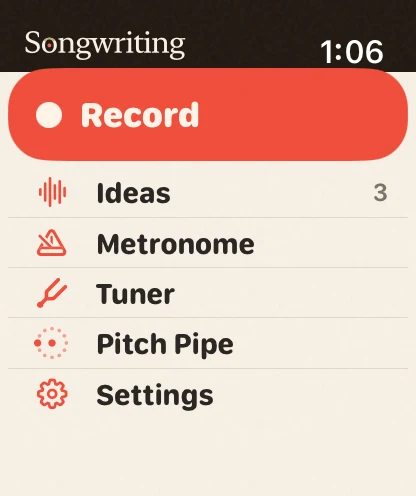
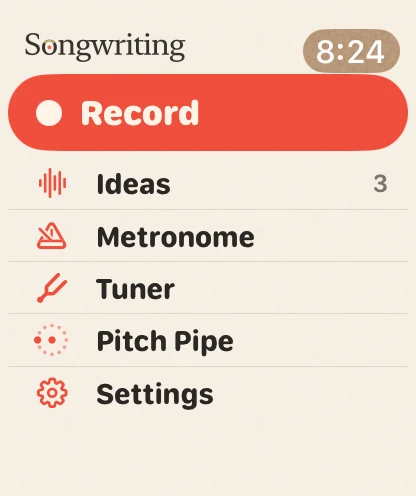
Watch pictures re-pulled: tan clock window in the light set, Record slab clears the clock on dark home

diff --git a/index.html b/index.html
@@ -375,7 +375,7 @@ Secrets that the sycamores keep</textarea>
       <li>
         <figure class="watch floaty" style="--d:0s">
           <span class="band top"></span>
-          <div class="case"><div class="face"><img class="s-dark" src="assets/watch-home.webp?v=20260916" alt="The Watch home screen: the Songwriting wordmark, a coral Record slab at 100 bpm, then Ideas, Metronome, Tuner and Pitch Pipe as a list" width="416" height="496" decoding="async"><img class="s-light" src="assets/watch-home-paper.webp?v=20260916" alt="" width="416" height="496" decoding="async"></div><span class="crown"></span><span class="side"></span></div>
+          <div class="case"><div class="face"><img class="s-dark" src="assets/watch-home.webp?v=20260917" alt="The Watch home screen: the Songwriting wordmark, a coral Record slab at 100 bpm, then Ideas, Metronome, Tuner and Pitch Pipe as a list" width="416" height="496" decoding="async"><img class="s-light" src="assets/watch-home-paper.webp?v=20260917" alt="" width="416" height="496" decoding="async"></div><span class="crown"></span><span class="side"></span></div>
           <span class="band bottom"></span>
           <figcaption><span class="mono">01</span>Home</figcaption>
         </figure>
@@ -383,7 +383,7 @@ Secrets that the sycamores keep</textarea>
       <li>
         <figure class="watch floaty" style="--d:-1.9s">
           <span class="band top"></span>
-          <div class="case"><div class="face"><img class="s-dark" src="assets/watch-recording.webp?v=20260916" alt="A take in progress on the Watch: a red recording dot, bar 2, four beat dots with the current beat lit, a timeline at five seconds and a Stop button" width="416" height="496" decoding="async"><img class="s-light" src="assets/watch-recording-paper.webp?v=20260916" alt="" width="416" height="496" decoding="async"></div><span class="crown"></span><span class="side"></span></div>
+          <div class="case"><div class="face"><img class="s-dark" src="assets/watch-recording.webp?v=20260916" alt="A take in progress on the Watch: a red recording dot, bar 2, four beat dots with the current beat lit, a timeline at five seconds and a Stop button" width="416" height="496" decoding="async"><img class="s-light" src="assets/watch-recording-paper.webp?v=20260917" alt="" width="416" height="496" decoding="async"></div><span class="crown"></span><span class="side"></span></div>
           <span class="band bottom"></span>
           <figcaption><span class="mono">02</span>A take, bar 2</figcaption>
         </figure>
@@ -391,7 +391,7 @@ Secrets that the sycamores keep</textarea>
       <li>
         <figure class="watch floaty" style="--d:-3.8s">
           <span class="band top"></span>
-          <div class="case"><div class="face"><img class="s-dark" src="assets/watch-idea.webp?v=20260916" alt="An idea recorded on the Watch, looping back: beat dots over a coral progress line, 2 bars at 76 bpm, a note that it lands when your phone is near, and Retake and Stop buttons" width="416" height="496" decoding="async"><img class="s-light" src="assets/watch-idea-paper.webp?v=20260916" alt="" width="416" height="496" decoding="async"></div><span class="crown"></span><span class="side"></span></div>
+          <div class="case"><div class="face"><img class="s-dark" src="assets/watch-idea.webp?v=20260916" alt="An idea recorded on the Watch, looping back: beat dots over a coral progress line, 2 bars at 76 bpm, a note that it lands when your phone is near, and Retake and Stop buttons" width="416" height="496" decoding="async"><img class="s-light" src="assets/watch-idea-paper.webp?v=20260917" alt="" width="416" height="496" decoding="async"></div><span class="crown"></span><span class="side"></span></div>
           <span class="band bottom"></span>
           <figcaption><span class="mono">03</span>An idea, looping</figcaption>
         </figure>
@@ -399,7 +399,7 @@ Secrets that the sycamores keep</textarea>
       <li>
         <figure class="watch floaty" style="--d:-5.7s">
           <span class="band top"></span>
-          <div class="case"><div class="face"><img class="s-dark" src="assets/watch-pitchpipe.webp?v=20260916" alt="The pitch pipe on the Watch: a ring of twelve stops with A4 lit, 440 Hz beneath it, minus and plus buttons and a coral Sound button" width="416" height="496" decoding="async"><img class="s-light" src="assets/watch-pitchpipe-paper.webp?v=20260916" alt="" width="416" height="496" decoding="async"></div><span class="crown"></span><span class="side"></span></div>
+          <div class="case"><div class="face"><img class="s-dark" src="assets/watch-pitchpipe.webp?v=20260916" alt="The pitch pipe on the Watch: a ring of twelve stops with A4 lit, 440 Hz beneath it, minus and plus buttons and a coral Sound button" width="416" height="496" decoding="async"><img class="s-light" src="assets/watch-pitchpipe-paper.webp?v=20260917" alt="" width="416" height="496" decoding="async"></div><span class="crown"></span><span class="side"></span></div>
           <span class="band bottom"></span>
           <figcaption><span class="mono">04</span>Pitch pipe, A4</figcaption>
         </figure>
